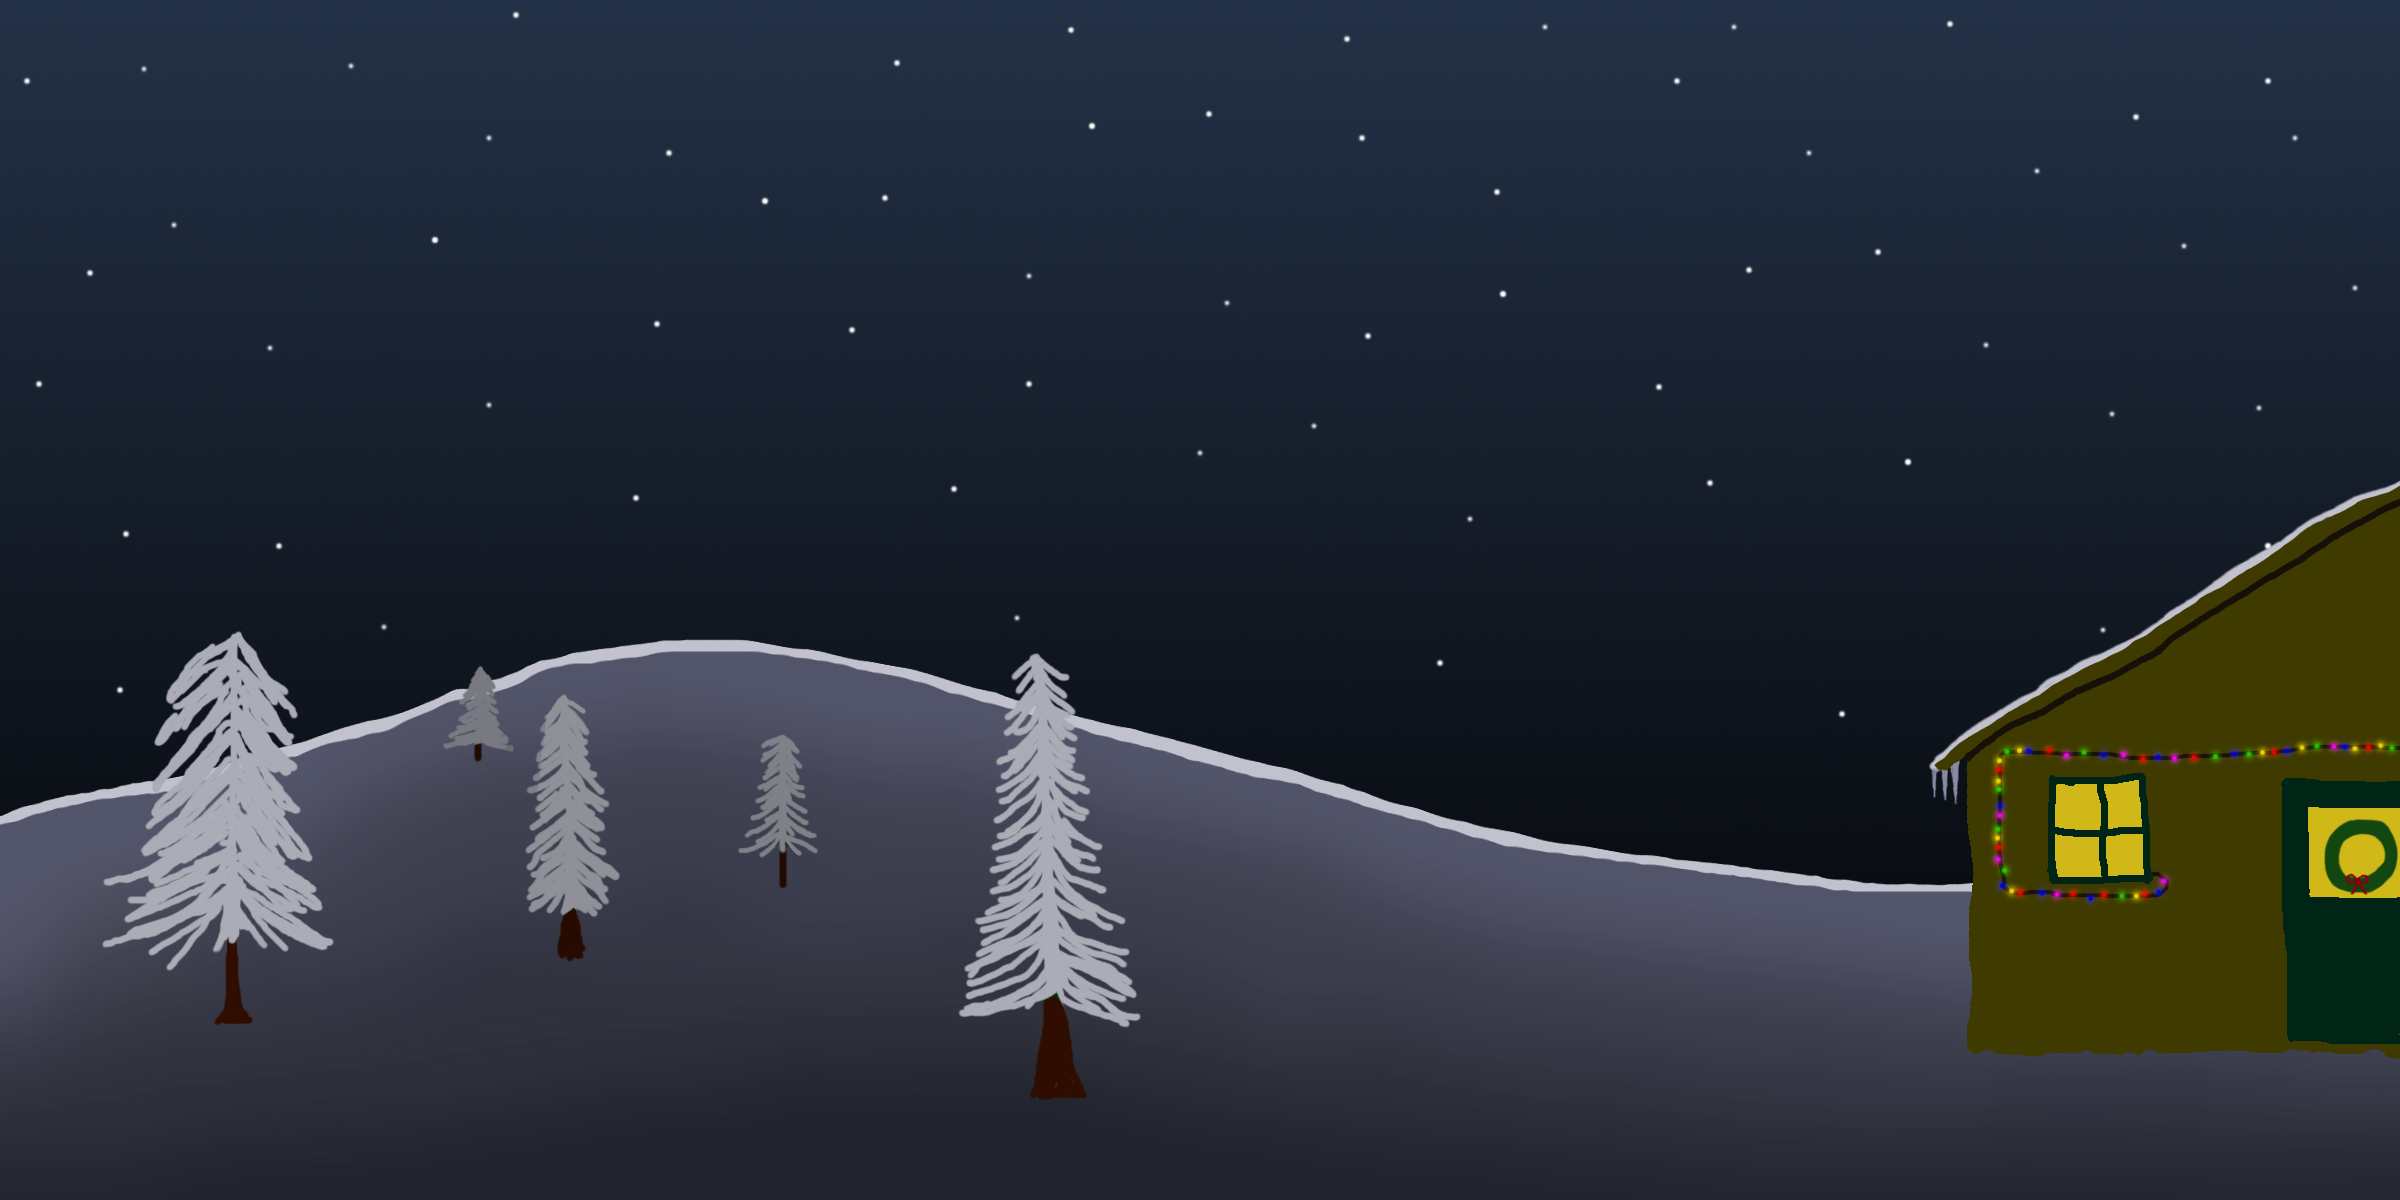
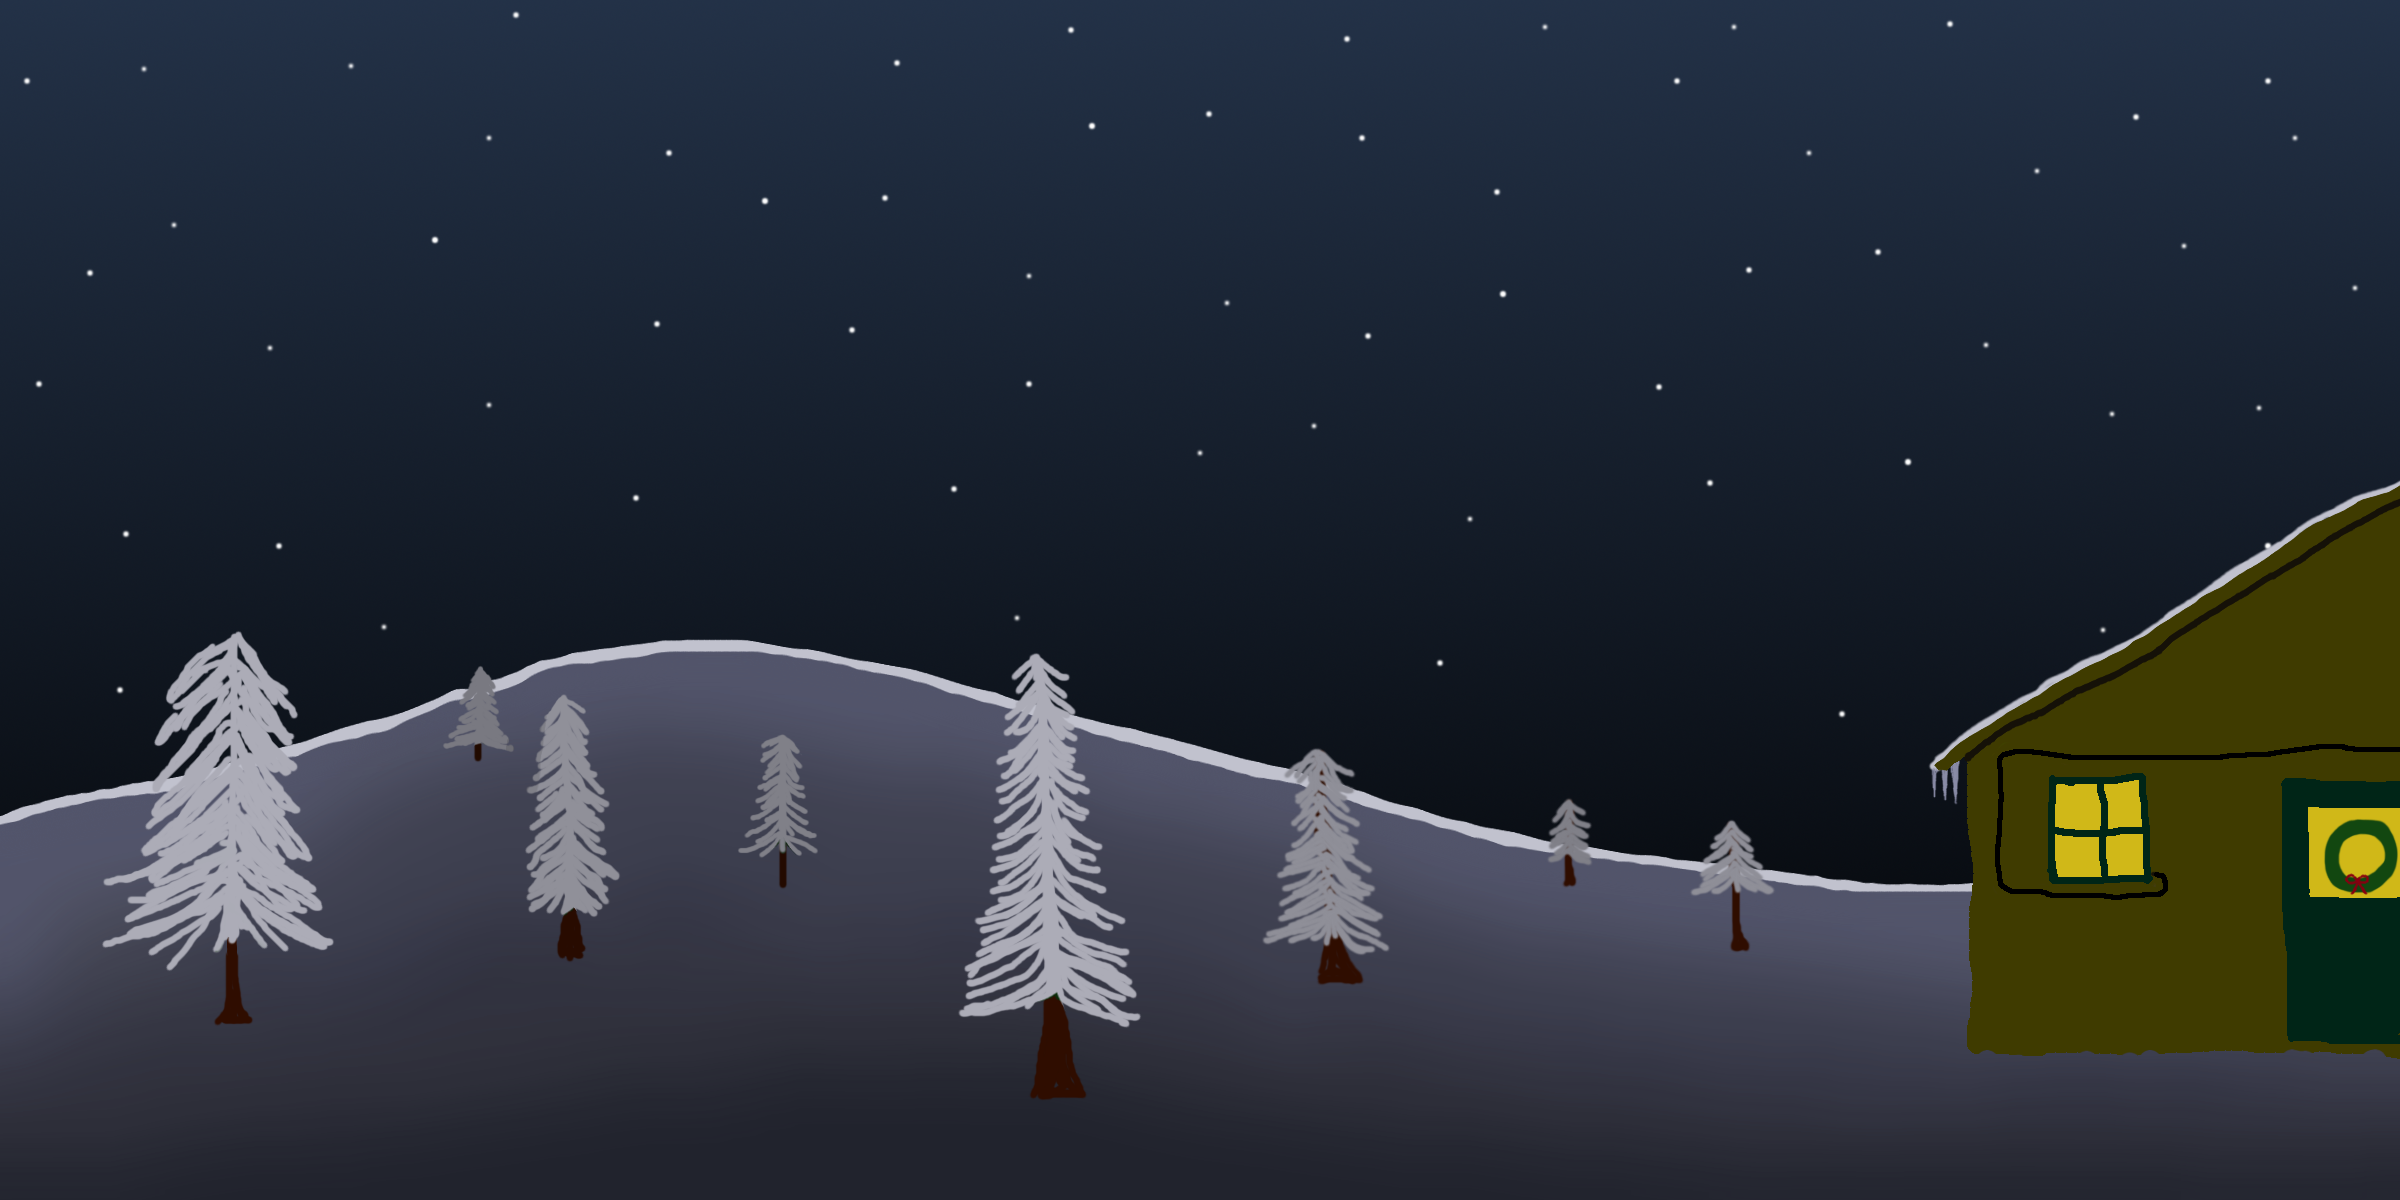
Lights are go

diff --git a/lightpoints.js b/lightpoints.js
@@ -1,0 +1,215 @@
+var lightPoints = 
+[ 
+[16,[
+[108,944],
+[151,933],
+[198,916],
+[234,923],
+[317,938],
+[298,897],
+[155,900],
+[125,874],
+[232,867],
+[214,828],
+[284,838],
+[270,801],
+[175,820],
+[188,780],
+[263,784],
+[285,803],
+[276,753],
+[178,761],
+[219,714],
+[290,737],
+[240,680],
+[171,732],
+[183,675],
+[238,637],
+[290,709]
+]],
+[16, [ //BREAK 5th, 4h from right, up front
+[966,1014],
+[1006,1003],
+[1060,984],
+[1127,1016],
+[1124,985],
+[1084,965],
+[983,965],
+[1035,940],
+[1077,906],
+[1000,927],
+[1018,890],
+[1056,878],
+[1102,886],
+[1003,864],
+[1040,850],
+[1086,861],
+[1101,846],
+[1004,841],
+[1043,824],
+[1084,813],
+[1002,817],
+[1015,794],
+[1050,794],
+[1087,791]
+]],
+[12,[
+//BREAK, 3rd tree, middle
+[536,905],
+[578,883],
+[594,902],
+[562,893],
+[549,859],
+[583,855],
+[613,873],
+[597,843],
+[540,841],
+[597,819],
+[546,806],
+[572,805],
+[599,804],
+[566,782],
+[583,751],
+[538,774],
+[547,755],
+[589,734],
+[546,733],
+[550,719],
+[562,702],
+[585,712]
+]],
+[10,[//BREAK, 4th tree, far middle
+[741,850],
+[783,839],
+[812,849],
+[811,838],
+[751,833],
+[784,819],
+[804,822],
+[755,817],
+[798,810],
+[781,796],
+[789,771],
+[771,778],
+[768,787],
+[800,766],
+[767,756],
+[784,741],
+[798,752],
+[769,748]
+]],
+[12, [//BREAK Tree 6, 3rd from right. Middle
+[1275,938],
+[1314,921],
+[1359,950],
+[1336,931],
+[1389,952],
+[1374,914],
+[1297,912],
+[1301,884],
+[1331,892],
+[1374,890],
+[1295,861],
+[1330,831],
+[1364,864],
+[1344,833],
+[1357,821],
+[1302,801],
+[1346,785],
+[1330,798],
+[1317,753]
+]],
+[8,[ //BREAK Tree 7, 2nd from right. Far back
+[1555,860],
+[1571,853],
+[1586,867],
+[1584,846],
+[1560,843],
+[1567,835],
+[1585,834],
+[1573,818],
+[1557,830],
+[1560,814],
+[1570,804],
+[1585,813]
+]],
+[11,[ //BREAK 8th tree, 1st right. middle
+[1697,894],
+[1733,872],
+[1765,890],
+[1753,876],
+[1707,874],
+[1711,858],
+[1732,842],
+[1756,864],
+[1746,847],
+[1719,844],
+[1719,838],
+[1733,824],
+[1750,843]
+]],
+[13, [ //House lights
+//BREAK
+[1971,754],
+[1988,741],
+[2014,728],
+[2048,711],
+[2078,691],
+[2112,678],
+[2147,659],
+[2176,636],
+[2207,615],
+[2247,593],
+[2291,568],
+[2334,538],
+[2371,517],
+[2396,503],
+[2159,896],
+[2143,895],
+[2119,898],
+[2098,896],
+[2081,896],
+[2060,896],
+[2045,895],
+[2032,895],
+[2016,893],
+[2001,884],
+[1998,863],
+[2001,843],
+[2001,826],
+[2000,809],
+[2002,793],
+[2002,778],
+[2002,758],
+[2018,751],
+[2038,751],
+[2056,753],
+[2072,758],
+[2094,759],
+[2111,759],
+[2136,760],
+[2155,757],
+[2178,758],
+[2198,758],
+[2223,756],
+[2250,756],
+[2269,754],
+[2295,752],
+[2307,749],
+[2324,747],
+[2345,750],
+[2367,752],
+[2388,751],
+[2397,748]
+]]]
+
+var li,lj,size,x,y,chunk
+var lightArray = [];
+for (li = 0; li<lightPoints.length; ++li) {
+    size = lightPoints[li][0];
+    chunk = lightPoints[li][1]; 
+    for (lj=0; lj<chunk.length; ++lj) {
+        lightArray.push([chunk[lj][0], chunk[lj][1], size]);
+    }
+    
+}

diff --git a/snowflake.js b/snowflake.js
@@ -716,7 +716,7 @@ var farBackground = new BackgroundFlakes(0.5,100);
 //var tree = new Tree();
 var wind = new Wind("wind");
 var backdrop = new BackgroundImage("backdrop","backdrop.png");
-var lights = new FlickeryLights([[1035,655,18],[781,736,12]],"lights", "light.png");
+var lights = new FlickeryLights(lightArray,"lights", "light.png");
 
 animLoop.addLayer(backdrop);
 animLoop.addLayer(lights);

diff --git a/snowflake.html b/snowflake.html
@@ -8,6 +8,7 @@
 <div id=graphicsSpace>
 </div>
 <script src="https://cdnjs.cloudflare.com/ajax/libs/pixi.js/4.6.2/pixi.min.js"></script>
+<script src="lightpoints.js"></script>
 <script src="triangulation.js"></script>
 <script src="snowflake.js"></script>
 </body>
